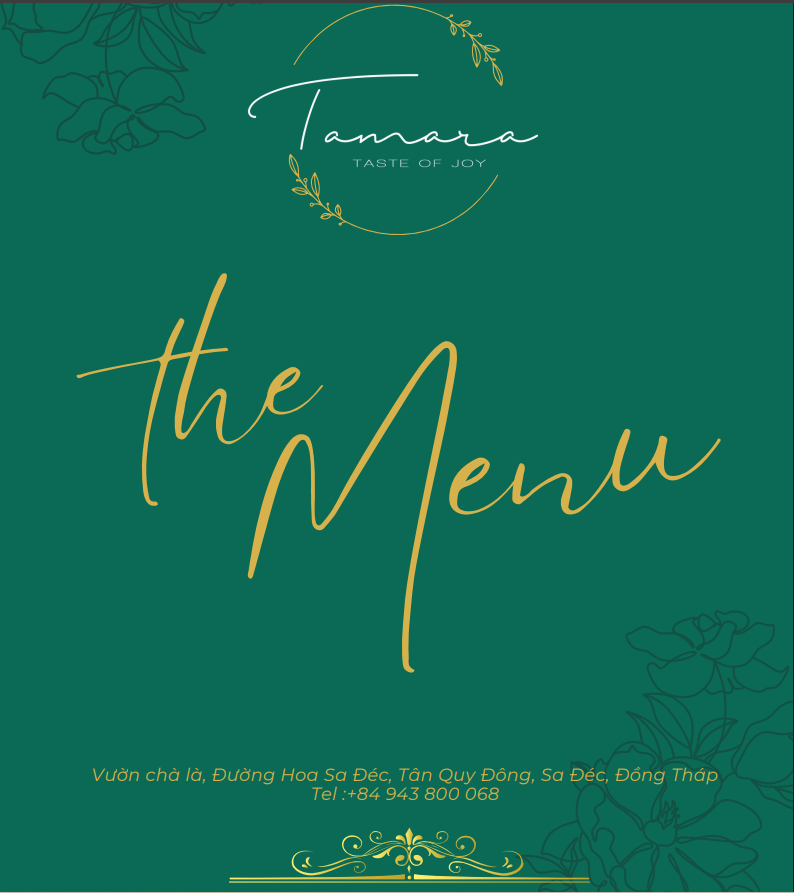
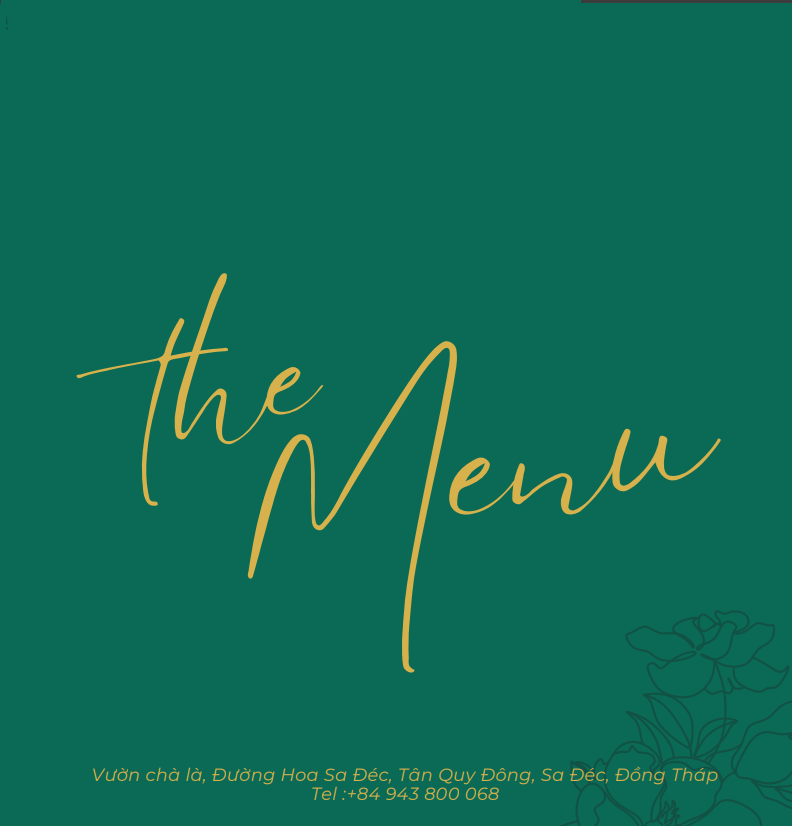
update memory fix image menu

diff --git a/src/Pages/Memory.jsx b/src/Pages/Memory.jsx
@@ -1,16 +1,125 @@
-import React from 'react'
-import "../Scss/memory.scss"
+import React, { useState } from 'react';
+import "../Scss/memory.scss";
+import { Swiper, SwiperSlide } from "swiper/react";
+import { EffectCoverflow, Pagination, Navigation } from "swiper/modules";
+import "swiper/css";
+import "swiper/css/effect-coverflow";
+import "swiper/css/pagination";
+import "swiper/css/navigation";
+import { NavLink } from 'react-router-dom';
+
+const slides = [
+    {
+        image: "../assets/image/workshop10.jpg",
+        text: "Workshop tại Tamara Coffee",
+        details: ["../assets/image/workshop10.jpg", "../assets/image/workshop1.jpg","../assets/image/workshop2.jpg","../assets/image/workshop3.jpg","../assets/image/workshop4.jpg","../assets/image/workshop5.jpg","../assets/image/workshop6.jpg","../assets/image/workshop7.jpg","../assets/image/workshop8.jpg","../assets/image/workshop9.jpg"],
+        route:""
+    },
+    {
+        image: "../assets/image/w17.jpg",
+        text: "Đám cưới tại Tamara Coffee",
+        details: ["../assets/image/w17.jpg",  "../assets/image/w1.jpg",
+  "../assets/image/w2.jpg",
+  "../assets/image/w3.jpg",
+  "../assets/image/w4.jpg",
+  "../assets/image/w5.jpg",
+  "../assets/image/w6.jpg",
+  "../assets/image/w7.jpg",
+  "../assets/image/w8.jpg",
+  "../assets/image/w9.jpg",
+  "../assets/image/w10.jpg",
+  "../assets/image/w11.jpg",
+  "../assets/image/w12.jpg",
+  "../assets/image/w13.jpg",
+  "../assets/image/w14.jpg",
+  "../assets/image/w15.jpg",
+  "../assets/image/w16.jpg",
+  "../assets/image/w18.jpg",
+  "../assets/image/w19.jpg",
+  "../assets/image/w20.jpg",],
+  route:""
+    },
+    {
+        image: "../assets/image/menu10.png",
+        text: "Thức uống và bánh ngọt tại Tamara Coffee",
+        // details: ["../assets/image/menu10.png", "../assets/image/workshop10.jpg"],
+        route:"/menu"
+    },
+];
+
 export default function Memory() {
-  return (
-   <div className='container-fluid p-0'>
-        {/* <div className='img-memory d-flex justify-content-center align-items-center'>
-           <h1>Memory</h1>
-        </div> 
-        <div className='img mt-5'>
-            <img src="./assets/image/in1.png" style={{objectFit:"cover"}} alt="" />
-            <img src="./assets/image/in2.png" style={{objectFit:"cover"}} alt="" />
-            <img src="./assets/image/in3.png" style={{objectFit:"cover"}} alt="" />
-        </div> */}
-   </div>
-  )
+    const [isModalOpen, setIsModalOpen] = useState(false);
+    const [selectedSlide, setSelectedSlide] = useState(null);
+
+    const openModal = (slide) => {
+         if (slide.route) {
+        // Redirect to the specified route instead of opening the modal
+        window.location.href = slide.route;
+    } else {
+        // Open the modal only if no route is provided
+        setSelectedSlide(slide);
+        setIsModalOpen(true);
+    }
+    };
+
+    const closeModal = () => {
+        setIsModalOpen(false);
+        setSelectedSlide(null);
+    };
+
+    return (
+        <div className='container-fluid p-0'>
+            <div className="gallery-container">
+                <Swiper
+                    effect="coverflow"
+                    grabCursor={true}
+                    centeredSlides={true}
+                    slidesPerView={1.5}
+                    coverflowEffect={{
+                        rotate: 0,
+                        stretch: 0,
+                        depth: 300,
+                        modifier: 1,
+                        slideShadows: true,
+                    }}
+                    loop={true}
+                    pagination={{ clickable: true }} // ✅ Pagination dots only
+                    modules={[EffectCoverflow, Pagination]}
+                    className="custom-swiper"
+                >
+                    {slides.map((slide, index) => (
+                        <SwiperSlide key={index} className="gallery-slide" onClick={() => openModal(slide)}>
+                            <img src={slide.image} alt={`Slide ${index}`} className="gallery-image" />
+                                            <NavLink to={slide.route} className="item-menu text-decoration-none"><p className='text-white fs-3 slide-text'>{slide.text}</p></NavLink>
+                            
+                            
+                        </SwiperSlide>
+                    ))}
+                </Swiper>
+            </div>
+
+            {/* Fullscreen Modal with Arrows */}
+            {isModalOpen && selectedSlide && (
+                <div className="modal-overlay" onClick={closeModal}>
+                    <div className="modal-content " onClick={(e) => e.stopPropagation()}>
+                        <button className="close-btn" onClick={closeModal}>✖</button>
+
+                        <Swiper
+                            loop={true}
+                            navigation={true} // ✅ Only arrows in modal
+                            modules={[Navigation]}
+                            
+                            className="modal-swiper"
+                        >
+                            {selectedSlide.details.map((image, index) => (
+                                <SwiperSlide key={index} className=''>
+                                    <img src={image} alt={`Detail ${index}`} className="modal-image" />
+                                </SwiperSlide>
+                            ))}
+                        </Swiper>
+                    </div>
+                </div>
+            )}
+        </div>
+    );
 }

diff --git a/src/Scss/memory.scss b/src/Scss/memory.scss
@@ -1,16 +1,126 @@
 @import "./All.scss";
-.img-memory {
-    background-image: url("../../public/assets/image/about.jpg");
+.gallery-container {
+   width: 100%;
+   height: 100vvw;
+    display: flex;
+    justify-content: center;
+    align-items: center;
+    background: black;
+}
+
+.custom-swiper {
+    max-width: 40%;
+}
+.gallery-slide{
     width: 100%;
-    height: 200px;
-    background-repeat:no-repeat;
-    background-size: cover;
-    background-position: center center;
-    
-    h1{
-     text-align: center;
-     letter-spacing: 3px;
-     color: orange;
-     font-weight: bolder;
-    }
- }
+}
+.gallery-image {
+    max-width: 100%;
+    height: 50%;
+    object-fit: cover;
+    border-radius: 10px;
+}
+
+
+.slide-text {
+    position: absolute;
+    /* ✅ Now absolute works */
+    top: 70%;
+    left: 80%;
+    transform: translateX(-50%);
+    background: rgba(0, 0, 0, 0.5);
+    /* Optional: Add contrast */
+    // padding: 10px 20px;
+    width: 40%;
+    text-align: center;
+    border-radius: 5px;
+}
+
+/* Modal Overlay (Ensure click doesn't block Swiper) */
+.modal-overlay {
+    position: fixed;
+    top: 0;
+    left: 0;
+    width: 100%;
+    height: 100%;
+    // background: rgba(0, 0, 0, 0.8);
+    background-color: white;
+    display: flex;
+    justify-content: center;
+    align-items: center;
+    z-index: 1000;
+    padding: 0
+}
+
+/* Prevent click on modal from closing if clicking inside */
+
+
+/* Close Button */
+.close-btn {
+    position: absolute;
+    top: 10px;
+    right: 20px;
+    color: white;
+    font-size: 24px;
+    border: none;
+    cursor: pointer;
+    padding: 5px 10px;
+    border-radius: 5px;
+    z-index: 1001;
+}
+
+/* Modal Swiper */
+/* Make modal fullscreen */
+.modal-content {
+    position: relative;
+    width: 100vw;
+    /* Almost full width */
+    height: 100vh;
+    /* Almost full height */
+    background: #000;
+    padding: 20px;
+    border-radius: 10px;
+    text-align: center;
+    display: flex;
+    justify-content: center;
+    align-items: center;
+}
+
+/* Increase Swiper size */
+.modal-swiper {
+    width: 100%;
+    height: 100vh;
+    /* Increase swiper height */
+}
+
+/* Increase image size */
+.modal-image {
+    width: 100%;
+    /* Adjust to fit container */
+    height: 100vh;
+    /* Maximize height */
+    object-fit: contain;
+    /* Keep aspect ratio */
+}
+
+
+.custom-swiper .swiper-pagination-bullet {
+    background: white !important;
+    /* White dots */
+    opacity: 0.5;
+    /* Slightly transparent */
+    width: 8px;
+    /* Bigger dots */
+    height: 8px;
+    transition: opacity 0.3s ease-in-out;
+}
+
+/* Active dot styling */
+.custom-swiper .swiper-pagination-bullet-active {
+    background: #ffcc00 !important;
+    /* Highlight active dot in yellow */
+    opacity: 1;
+    /* Fully visible */
+    transform: scale(1.3);
+    /* Slightly enlarge active dot */
+}

diff --git a/src/Pages/Menu.jsx b/src/Pages/Menu.jsx
@@ -3,7 +3,7 @@ import "../Scss/menu.scss"
 import HTMLFlipBook from "react-pageflip";
 export default function Menu() {
     const images = [
-    "../assets/image/menu10.png",
+    "../assets/image/menu0.png",
     "../assets/image/menu1.png",
     "../assets/image/menu2.png",
     "../assets/image/menu3.png",
